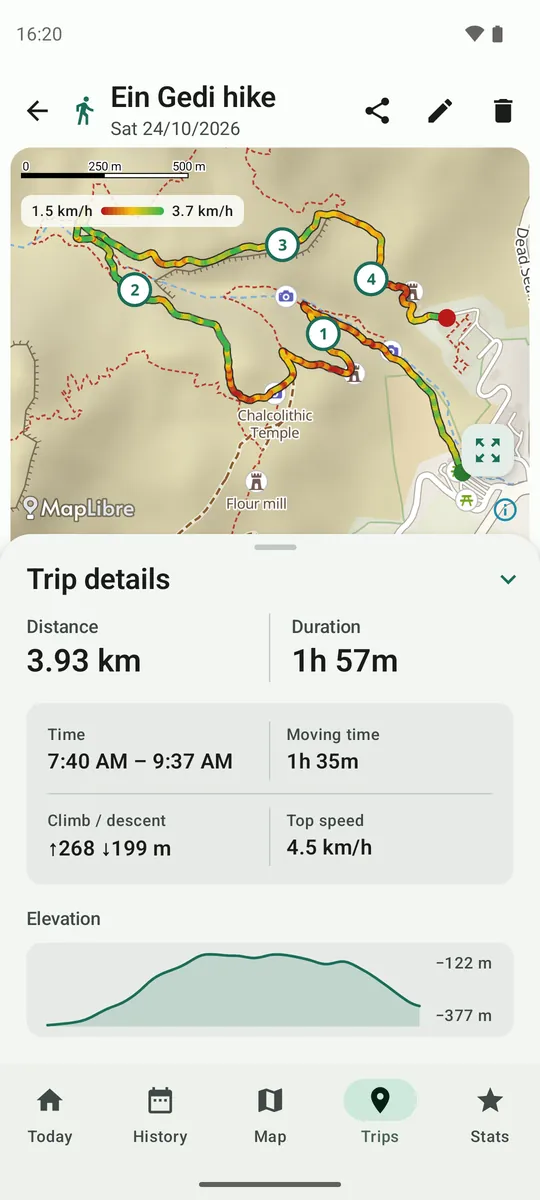
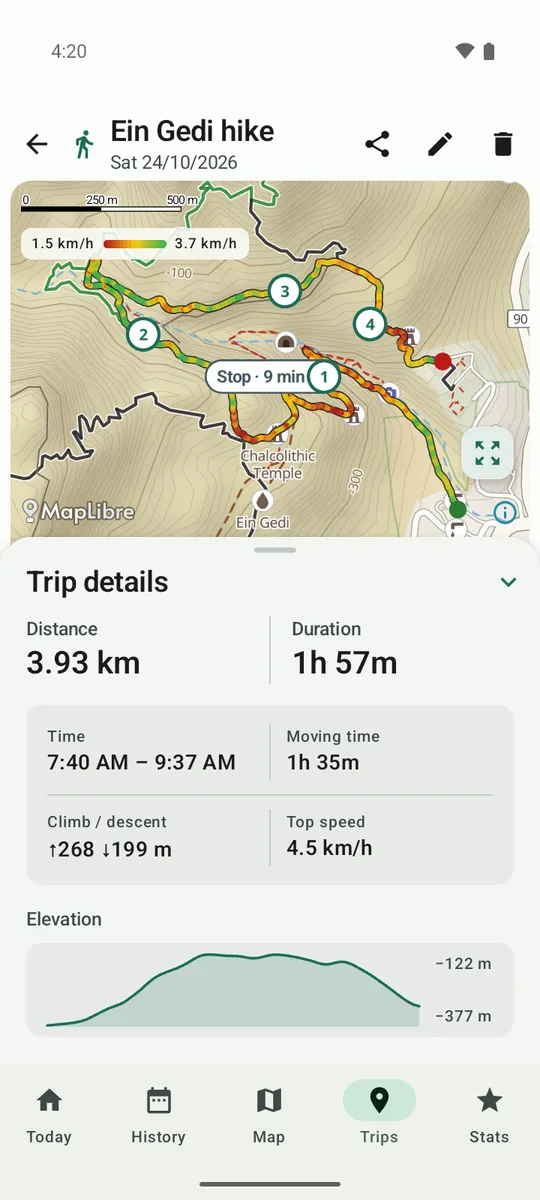
Publish the web page of 1.6: stops, new hike and trip-details screenshots (2026-11-21)
Built with scripts/build-site.sh from main b27b1d1. Privacy policy unchanged.

diff --git a/index.html b/index.html
@@ -72,9 +72,9 @@
 <div class="shots" role="list">
   <figure role="listitem"><img src="screenshots/map-recording.webp" width="540" height="1200" alt="The map in Makhtesh Ramon with no signal: a trip being recorded in orange, marked spots, the blue dot with its compass cone, colored trail marks and contour lines, and the Routes and Share my location buttons at the top"><figcaption>The map in Makhtesh Ramon, offline, while a trip records.</figcaption></figure>
   <figure role="listitem"><img src="screenshots/trip-drive.webp" width="540" height="1200" alt="A 4x4 drive in Makhtesh Ramon on the map, colored by speed from 11 to 71 km/h, with three spots"><figcaption>A 4x4 drive, colored by speed, with spots.</figcaption></figure>
-  <figure role="listitem"><img src="screenshots/trip-hike.webp" width="540" height="1200" alt="A hike at Ein Gedi on the map, colored by speed, along marked paths, with four spots"><figcaption>A hike at Ein Gedi, along the marked paths.</figcaption></figure>
+  <figure role="listitem"><img src="screenshots/trip-hike.webp" width="540" height="1200" alt="A hike at Ein Gedi on the map, colored by speed, along marked paths, with four spots and a stop showing how long it lasted"><figcaption>A hike at Ein Gedi, along the marked paths.</figcaption></figure>
   <figure role="listitem"><img src="screenshots/today.webp" width="540" height="1200" alt="Today: 8,571 of 10,000 steps in a ring, with workout and incidental steps and this week's total"><figcaption>Today's steps against your goal.</figcaption></figure>
-  <figure role="listitem"><img src="screenshots/trip-details.webp" width="540" height="1200" alt="Trip details: distance, duration, time, moving time, climb and descent, top speed and a height chart"><figcaption>Trip details and the height chart.</figcaption></figure>
+  <figure role="listitem"><img src="screenshots/trip-details.webp" width="540" height="1200" alt="Trip details: distance, duration, time, moving time, climb and descent, top speed and a height chart, below the hike's map with its stop"><figcaption>Trip details and the height chart.</figcaption></figure>
   <figure role="listitem"><img src="screenshots/trips-recording.webp" width="540" height="1200" alt="The Trips screen while recording: elapsed time, distance, GPS signal, Mark spot and Finish trip"><figcaption>Recording: mark spots as you go.</figcaption></figure>
   <figure role="listitem"><img src="screenshots/settings-offline-maps.webp" width="540" height="1200" alt="Settings with the offline map of Israel downloaded to the phone"><figcaption>The offline map of Israel, downloaded once.</figcaption></figure>
   <figure role="listitem"><img src="screenshots/he-dark-trip-detail.webp" width="540" height="1200" alt="The Makhtesh Ramon drive in Hebrew and dark mode, with the details panel open"><figcaption>In Hebrew and dark mode too.</figcaption></figure>
@@ -88,6 +88,7 @@
   <li><b>An outdoor map</b>Trails, wadis and jeep tracks, peaks and hill shading. Your position with a compass cone, and a map that can turn with you. The trip you're recording draws on it as you go.</li>
   <li><b>An offline map of Israel</b>Download it once (150 MB) and the map works with no signal, with marked trails in their colors, jeep tracks, wadis and contour lines.</li>
   <li><b>Every trip on a map</b>Colored by speed, with your spots, its distance, moving time, climb, top speed and a height chart. Walks and drives are counted separately.</li>
+  <li><b>Stops</b>A break of 7 minutes or more shows on the trip's map as one stop, with how long it lasted. It adds no distance, climb or moving time, so a long rest doesn't turn GPS drift into walking.</li>
   <li><b>GPX</b>Share or save any trip as a GPX file, to open it in other map and navigation apps.</li>
   <li><b>Routes from GPX files</b>Someone sends you a planned hike or 4x4 route? Open it with the app and follow it on the map, online or offline, with how far you've come and how far is left.</li>
   <li><b>Send where you are</b>One tap on the Map tab puts your location, as a map link, in WhatsApp, Telegram, a text or an email. Once: it doesn't keep updating.</li>
